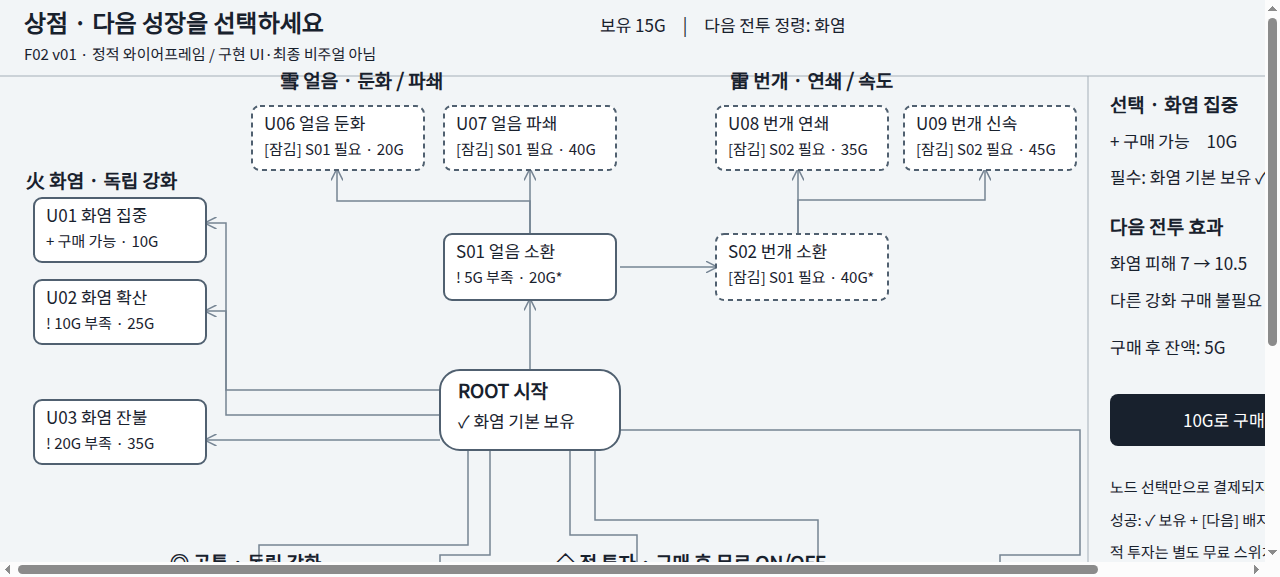
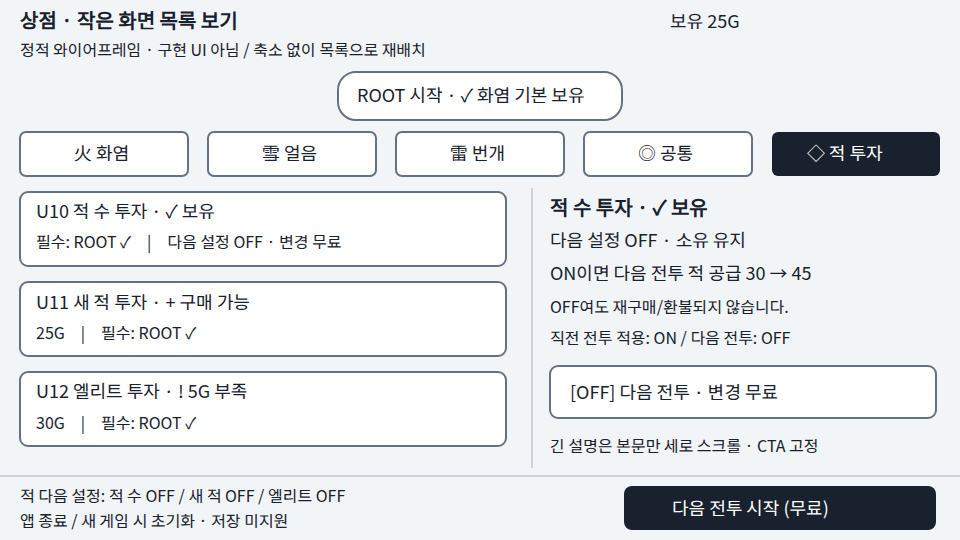
docs: resolve F02 peer review and responsive focus contract

diff --git a/replan/feedback-20261027/F02-sam-review.md b/replan/feedback-20261027/F02-sam-review.md
@@ -1,0 +1,61 @@
+# F02 Sam 실제 비용·기술 검토
+문서ID: P1-F02-SAM-v01
+담당: Sam | 검토일: 2026-10-27 | 상태: 검토 응답 완료, 조건부 수용·구현 미검증
+대상: F02.md P1-F02-v01 / F02-wide.svg / F02-compact.svg / F01.md P1-F01-v01
+카드: t_fbec12ad → F02 t_8703d60e
+
+## 결론
+고정 ROOT+14개 구매 노드·5가지, 필수 선행선, 선택과 명시적 구매 분리, 비색상 상태, 무료 투자 토글, 툴팁/고정 상세, 키보드 탐색, 작은 화면 목록 대체는 F06의 최소 구현으로 기술적으로 가능하다고 조건부 수용한다. 팬/줌·맞춤 아트·세이브·새 UI 프레임워크는 필요하지 않다. 다만 현재 UI에 배치만 바꾸는 경미한 작업은 아니다. 기존 사이드바를 전체화면 상점으로 바꾸고 거래/입력/선택 상태를 연결하는 작업이다.
+
+수용 조건은 아래의 지도 재배치, 작은 화면 필터/포커스 보완, F04/F05 완료판과의 통합 및 실제 격리 UI 시험이다. 이번 문서 검토를 위해 F04 차단을 해제하거나 우회할 필요는 없다. F06 구현 착수는 기존 선행조건에 계속 의존한다. 검토 완료는 F02/F06 구현 완료·대표의 가격/비주얼 개별 채택이 아니다.
+
+## 실제 확인 근거와 한계
+- F02 본문 전체와 두 SVG의 XML·좌표·문구를 직접 읽고 F01의 ID/선행/다음 전투 계약과 대조했다. 두 SVG는 정적 설계도다. 이번에 브라우저 렌더링·픽셀 충돌 검사·Unity UI 실행은 하지 않았다.
+- 내부 정본 Assets/MGAME/Runtime/ElementalDemo.cs를 읽었다. UI Toolkit의 UIDocument/VisualElement/Label/Button/ScrollView를 이미 사용한다(5, 25~66행). 기존 UI 기술을 재사용할 근거가 있다. Canvas/uGUI로 전환해야 한다는 근거는 없다. F02의 'Unity Canvas 실측'은 현 구현에서는 UI Toolkit 패널의 실제 해상도·스케일 실측으로 구체화하면 된다.
+- 같은 파일 52~62행은 폭340의 사이드바와 12개 카드, 클릭 즉시 Buy 호출이다. 19~20행의 본문/버튼 기본값과 58~59행의 카드 글자는 F02의 글자·클릭영역 기준과 다르다. 기존 스타일 재사용만으로 F02 크기 기준을 만족한다고 볼 수 없다.
+- 78~81, 91~116행에서 매 프레임 Refresh가 실행되고, 95행에는 과거 구매개수 해금 안내, 99~100행에는 12개 구매와 3개 투자 토글 갱신이 있다. 전체화면 노드나 상세를 매 프레임 재생성하지 말고 기존 요소를 유지하며 거래/선택/모드 변경 때 상점 표시만 갱신할 것을 권고한다. 실제 병목이나 프레임 저하는 측정하지 않았다.
+- DemoModel.cs 24~65행의 기존 12개 가격/Owned 배열, 동기 거래, 투자 소유/NextInvest 분리, 구매개수 해금과 73~94행의 다음 전투 재생성을 읽었다. 현재 코드가 이미 S01/S02를 지원한다는 뜻은 아니다. 명시 ID 대응과 구매개수 해금 제거는 F06의 필수 통합 비용이다.
+- F04.md는 실행 정책 차단·구현 미완료를 기록한다. 내부 정본 읽기는 가능했지만 승인 격리 복사본의 최신 일치 여부·실행 바이너리 동일성은 이번에 확인하지 않았다. F04/F05 변경 후 최신 코드를 다시 확인해야 한다.
+- 레이아웃 산술 보조용 python -c 호출은 무인 승인 정책으로 BLOCKED됐다. 계산 결과나 자동 검사 통과 수치를 만들지 않았으며 다른 실행기로 우회하지 않았다. 아래 레이아웃 지적은 읽은 원문 좌표/규칙의 비교이며 렌더링 결과가 아니다.
+
+## 최소 구현안과 상대 비용
+아래 비용은 설계상 상대 판단이며 실측·확정 견적·납기 약속이 아니다. 기존 UI Toolkit과 단일 로컬 모델을 유지하고 새 에셋/저장/컨트롤러 지원이 없다는 가정이다.
+
+|요소|권고 최소 방식|상대 부담·수용 조건|
+|---|---|---|
+|고정 지도·필수 선행|고정 ID와 가지별 좌표/연결 정의, 기존 도형 그리기 방식 재사용. 연결선은 클릭을 가로채지 않음|중간. 자동 그래프 배치/경로탐색 불필요. U07/U08을 형제 강화의 자식으로 표현하지 않음|
+|선택/상태/명시 CTA|선택 ID와 모델 상태를 분리. ROOT 포함 정보 선택 요소와 실제 구매 버튼을 별도로 둠|낮음~중간. 비활성 구매 버튼으로 노드 전체를 비활성화하면 잠금 이유 접근이 사라짐|
+|비색상 표식|텍스트 '[잠김]', '+ 구매 가능', '! 부족', '보유', '[다음]'과 테두리 재사용|낮음. 특수 글리프/맞춤 아이콘에 의존하지 않고 F05 한국어 폰트에서 확인|
+|무료 투자 토글|기존 소유/다음 설정 분리 재사용, 구매 CTA와 별도 버튼·hitbox|낮음~중간. 적용 중/다음 설정/신규 구매 건수를 별도 표시, 구매 직후 OFF도 정상|
+|고정 상세+툴팁|같은 표시 데이터를 재사용. 상세 본문만 스크롤, CTA 고정. 툴팁은 짧은 정보·지연·가용영역 보정|중간. 기존 파일에 툴팁/고정 상세 구현은 없음. hover는 필수 조작이 아님|
+|Tab/Shift+Tab·가지 이동|노드 ID 기반 포커스 순서와 선택 유지, 보이는 항목으로 포커스 복구|중간~높음. 자동 기본 Tab에 맡겨 명세와 일치한다고 단정하지 않음|
+|지도/목록/단일열|상태/상세/카드 표시 로직 공유, 배치만 전환. 독립 구매 로직을 모드별로 복제하지 않음|중간~높음. 필터·스크롤·포커스·화면 크기 전환 회귀가 주 비용|
+|입력 경계|상점 전면 패널로 전장 입력 차단, 모델 Phase도 검증. 구매/시작은 새 입력만 허용|중간~높음. F04 전멸 전환 프레임, 키 반복, 포커스 복귀와 함께 검증 필요|
+
+전체 합산 인일/금액은 산출하지 않는다. 실행환경과 F04/F05 완료판을 확인하지 못한 상태에서 정밀 수치를 약속할 근거가 없다. 성능보다 입력·거래·반응형 예외의 구현/회귀 비용이 우선 위험이라는 판단이다.
+
+## Mia 보완 요청 — 설계의 핵심을 바꾸지 않는 세부
+1. 넓은 지도는 1440×900 SVG 좌표를 1280×720에 그대로 복사하거나 전체 축소하면 안 된다. 상세 고정 폭을 제외한 트리 가용영역과 높이가 달라진다. SVG의 오른쪽 투자 카드가 트리 경계에 닿고, 하단 카드/추천문도 하단 쪽에 있으므로 1280×720 전용 가지별 좌표 보정이 필요하다. 최소 카드/본문 크기를 유지하는 고정 레이아웃 프리셋을 우선하고 선 교차 회피 자동 알고리즘은 만들지 않는다. 맞지 않으면 Mia와 가지 배치를 조정한다. 지도 최소 지원 기준을 임의로 올리지는 않는다.
+2. 960×540는 목록/상세 분리와 ROOT/필터의 고정 영역을 함께 산정해야 한다. SVG에서 ROOT는 y72~120, 필터는 y132~176에 있다. 본문의 '상단72/하단64를 제외한 영역을 55/45로 분할'을 그대로 적용하면 ROOT/필터를 위한 추가 세로 공간을 누락하기 쉽다. 고정 헤더 아래 ROOT/필터, 그 아래 남은 영역에 목록/상세 스크롤이라는 순서를 명시할 것을 요청한다.
+3. 640×480 단일열은 같은 5개 필터를 SVG 폭으로 유지할 수 없다. 필터는 텍스트가 읽히는 줄바꿈 배치 또는 가로 스크롤을 Mia가 선택하고, 키보드로 숨은 필터에 접근 가능해야 한다. '목록으로'는 상세에서 항상 접근 가능하게 두고 무료 시작/가격/CTA는 본문 긴 문구에 밀리지 않게 한다. 목록 위치는 가지별로 보존하는 단순 상태면 충분하다.
+4. 현재 Tab 명세에는 가지 헤더/필터와 '목록으로'의 순서가 빠져 있다. 작은 화면에서 전체 노드 고정 순서를 유지하려 자동 필터 전환하면 사용자가 고른 필터가 매번 바뀔 수 있다. 권고: 넓은 지도는 기재된 전체 순서, 목록은 ROOT→가지 필터→현재 가지의 노드→상세 행동→무료 시작, 단일열 상세는 목록 복귀→상세 행동→무료 시작. 선행 보기는 해당 가지를 열고 노드에 포커스, 필터 수동 변경은 해당 가지의 기존 선택 또는 첫 노드로 이동. 원래 선택 보존과 '숨은 선택 자동 노출'을 모든 필터 클릭에 적용해 필터 전환을 즉시 되돌리지 않도록 예외를 합의해야 한다. 이는 Sam 제안이며 Mia 수용 전 확정 UX 변경이 아니다.
+5. 모드 전환/거래 갱신 때문에 UI 트리를 재구성하며 포커스·누른 키를 잃지 않게 한다. 노드 Enter/Space는 선택, CTA에서만 구매, 비활성 CTA는 Tab 제외라는 F02 의도는 유지한다. 가지 헤더도 키보드로 이동시킬 경우 focusable 및 역할/복귀 규칙을 정한다.
+
+위 보완은 F02 원문을 임의 수정하지 않고 응답으로 전달한다. 지도와 기존 독립 구매 규칙 사이에 새 핵심 충돌은 발견하지 않았다. 필터와 포커스는 구현 전 Mia가 수용/수정 응답할 세부이며, 문서 리뷰 자체의 외부 실행 차단 사유는 아니다.
+
+## 더 싼 대안과 상신 조건
+- 권고 기본안: 넓은 화면만 고정 지도, 작은 화면은 동일 데이터 목록과 동일 상세를 재사용한다. 별도 UI 프레임워크·모드별 거래 코드·사용자 배치 편집기 없이 목적을 달성한다.
+- 선택적 150ms 테두리/짧은 음은 첫 최소판에서 생략 가능하다. 체크/잔액/상세 결과로 구매 성공은 유지한다. 이는 F02의 선택 요소를 줄이는 것이며 필수 접근성 정보를 없애는 대안이 아니다.
+- 목록 전용을 모든 화면에 쓰면 지도/연결선 비용은 줄지만 '전체화면 중앙 시작 트리' 의도를 약화시킨다. 자동 채택하지 않고, 일정 압박이 실제 확인될 때만 Mia와 Sophie를 통해 대표에게 대안으로 상신한다.
+- 팬/줌, 자동 레이아웃, 맞춤 아트, 새 저장, 별도 UI 시스템 전환, 장기100개 대응은 범위 밖이다. 이를 요구하거나 기본 글자/클릭영역을 지키기 위해 기존 최소판을 크게 재설계해야 하면 작업 범위·추가 예상량·잃는 UX를 먼저 구체 보고한다.
+- 현재는 큰 비용 변경이 발생했다는 실측 근거가 없다. F04 정책 차단을 비용 증가나 새 승인 필요로 바꿔 말하지 않는다. 재개 시 실제 추가 작업이 커지면 '고정 지도 유지와 배치 보정' 대 '목록 전용 축소'를 대표의 구체 선택지로 올리고 임의 축소하지 않는다.
+
+## F06 검증 인계 — 아직 실행하지 않음
+- F04/F05 완료판과 승인 격리 위치를 확인한 뒤 기능 모델 시험과 실제 UI 시험을 구분한다. F02의 필수 시나리오 1~9를 누락 없이 실행한다.
+- 모델: ROOT 구매 거절, S01/S02 선행, 같은 상점 연속 구매, U06 없이 U07/U09 없이 U08, 기존 구매개수 지급 제거, 중복/부정ID/전투중 구매 거절, 실패 시 무변경, 무료 투자 무차감과 다음 전투 스냅샷, 종별 최대1 재생성을 확인한다. UI 표시만으로 거래 성공을 판정하지 않는다.
+- UI: 1920×1080/1440×900/1280×720/960×540/640×480 및 모드 경계의 바로 전후, 긴 한국어·폰트 폴백, 필터/선행 보기/상세 복귀의 선택·스크롤·포커스 보존을 확인한다. 기준 치수는 OS 창 크기와 UI Toolkit 유효 패널 크기/스케일을 함께 기록한다.
+- 모든 기본/보조 상태와 무채색·음소거, 잠금 노드 정보 접근, Enter/Space 노드 선택과 CTA 구매, Tab/역순/자동 스크롤을 확인한다. 툴팁은 가장자리와 지연 중 선택변경도 시험한다.
+- 전멸/시간 종료로 열린 첫 프레임, 연타·Enter held·포커스 이탈/복귀·시작 직후 전장 입력관통을 확인한다. 상점 동안 전장 시간/공격/금화가 진행하지 않아야 한다. 시작/구매/토글의 이벤트별 로그와 전후 모델 값을 증빙한다.
+- 앱 종료/새 게임 초기화와 진행 미저장 안내를 확인한다. Windows 격리 빌드와 실제 전달물에서 확인한 결과만 통과로 기록한다. 기존 D02 인수 잔여·사람의 이해도·재미/가격 타당성은 별도다.
+
+실제 수행: 입력 문서와 정적 SVG 소스, 기존 UI/모델 및 F04 차단 기록의 읽기 검토. 미수행: 새 게임 코드/프로젝트 쓰기, Unity/빌드/기능·성능/사람 UX 시험, 원격 게시·Slack 발송. F02.md와 공유 README는 수정하지 않았다.

diff --git a/replan/feedback-20261027/F02.md b/replan/feedback-20261027/F02.md
@@ -1,17 +1,18 @@
 # F02 — 전체화면·중앙 시작 업그레이드 트리 UX
-문서ID P1-F02-v01 | Mia | 2026-10-27 | 상태: review, 구현 전 와이어프레임
+문서ID P1-F02-v02 | Mia | 2026-10-27 | 상태: review, 동료 조건 반영 완료·구현 전 와이어프레임
+변경: James C1/C2의 취득/활성/시점 분리, Sam의 UI Toolkit·1280 지도 프리셋·compact 본문·640 필터·Tab 예외를 반영. §9가 v01 SVG의 표현/좌표보다 우선한다.
 실행 근거: D-20261027-F-BATCH 최신 정정. 최종 비주얼 승인·가격 개별 채택·Unity 구현 완료가 아니다.
 선행: [F01](F01.md). 구현 담당: Sam / F06. 공유 README는 Sophie 소유로 수정하지 않는다.
 
 ## 1. 플레이어가 보는 장면과 다음 행동
 전투 종료 후 전투 화면을 덮는 전체화면 상점. 화면 중앙의 `시작 · 화염 기본 보유`를 기준으로 화염/얼음/번개/공통/적 투자 다섯 영역을 동시에 본다. 트리는 탐색 지도이지 강화 구매 순서를 강제하는 계단이 아니다. 먼저 노드를 선택하고 우측 상세에서 명시적 구매 버튼을 누른다. 노드 클릭만으로 결제하지 않는다.
-상단: `상점 / 보유 {gold}G / 다음 전투 정령: 화염·{해금 종}`. 하단 고정: `다음 전투에 적용 {pending}건 / 적 설정 요약 / 다음 전투 시작(무료)` 및 `앱 종료 시 진행 초기화`. 정령 해금과 강화의 pending은 신규 구매 건수, 투자 설정은 별도 ON/OFF 요약으로 표시한다. 전체화면은 게임 내 패널이며 OS 전체화면 변경이 아니다.
+상단: `상점 / 보유 {gold}G / 다음 전투 정령: 화염·{해금 종}`. 하단 고정: `신규 구매 {purchases}건 / 적 다음 설정 요약 / 다음 전투 시작(무료)` 및 `앱 종료 시 진행 초기화`. 신규 구매는 이번 상점에서 소유를 취득한 거래 건수이며 효과 활성 수가 아니다. 다음 전투 정령 종과 적 다음 설정 ON/OFF는 별도 요약한다. 전체화면은 게임 내 패널이며 OS 전체화면 변경이 아니다.
 첫 진입은 ROOT 선택, 키보드 포커스는 중앙 ROOT. 강제 튜토리얼/자동 구매/자동 전투 시작 없음. 0G에서도 `10G 더 모으면 화염 집중 구매 가능`과 무료 전투 시작을 함께 보여 막힘으로 오해하지 않게 한다. 문구는 목표 제안이며 가격/잔액을 런타임 데이터에서 읽는다.
 
 ## 2. 실제 와이어프레임 파일과 레이아웃
 - [1440×900 전체 지도](F02-wide.svg): 시작 ROOT를 트리 가용 영역 중앙에 둔 정적 와이어프레임. 잔액15G·ROOT만 보유·U01 선택의 예시이며 실행 가능한 상점이 아니다.
 - [960×540 축약 레이아웃](F02-compact.svg): 한 화면에 전체 지도와 긴 상세를 축소 압축하지 않고, 중앙 시작 요약+5개 가지 필터+선택 가지 목록+상세 패널을 보여 준다. 필터는 표시만 바꾸고 구매/잠금을 바꾸지 않는다.
-넓은 모드(가로1280 이상·세로720 이상): 상단76/하단92, 우측 상세320, 나머지 트리. 노드 최소148×64, 노드 간16 이상, 클릭 영역44 이상, 본문18px·상태16px·제목22px을 기준으로 한다. 좌표는 와이어프레임 가이드이며 Unity Canvas 실측으로 최종 보정한다.
+넓은 모드(가로1280 이상·세로720 이상): 상단76/하단92, 우측 상세320, 나머지 트리. 노드 최소148×64, 노드 간16 이상, 클릭 영역44 이상, 본문18px·상태16px·제목22px을 기준으로 한다. 좌표는 와이어프레임 가이드이며 UI Toolkit 유효 패널 해상도·스케일 실측으로 최종 보정한다.
 작은 모드: 지도 좌표 전체 축소 금지. 상단72/하단64를 고정하고 남은 영역을 목록55%/상세45%로 분리, 각각 독립 세로 스크롤. ROOT와 가지 필터를 위에 고정한다. 가로800 미만 또는 세로500 미만이면 상세를 단일 열 화면으로 전환하고 `목록으로`로 복귀, 같은 선택/스크롤 위치 보존. 640×480까지 필수 조작 유지가 목표이며 그 이하에는 최소 창 크기 안내. 실제 지원 해상도/렌더링 수용은 F06 시험 대상.
 이 범위의14개 구매 노드에는 이동/확대 기능을 도입하지 않는다. 휠은 넘치는 목록/상세 스크롤만 담당. 가지 이동/중앙으로 버튼과 화면 크기별 재배치가 드래그 팬/줌보다 비용이 작다는 Mia 권고이며 Sam 비용 검토 전 확정 견적이 아니다.
 
@@ -84,3 +85,40 @@ F06 필수 실제 수용 시나리오:
 ## 8. 구현 범위·위험
 고정14개 구매+ROOT,5가지,공통카드/상세/상태표시/선행선/반응형 목록만 요청한다. 팬·줌·자동경로탐색·맞춤 아이콘·음성·새 세이브·장기100개 트리·F03/F07 배치 구현은 추가하지 않는다. 숫자뿐 아니라 화염피해/얼음둔화/번개연쇄 효과를 문구에 드러내고 조합 가능성을 유지하되 새 효과를 약속하지 않는다.
 내부 구현/격리빌드/시험 증빙은 F06.md에서 연결할 예정이며 현재 F02에는 존재한다고 주장할 신규 구현 경로가 없다. 기존 D02 잔여 인수와 F04 실행환경 차단은 별개로 남는다. 비식별 문서/와이어프레임만 기존 MGame-artifact 범위에서 게시 가능, 소스·빌드·내부 경로/계정정보는 공개본에 넣지 않는다.
+
+## 9. v02 실제 검토 반영·구현 우선 명세
+실제 응답: [James 규칙 검토](F02-james-review.md), [Sam 기술·비용 검토](F02-sam-review.md). Mia가 두 응답 전체를 읽고 아래를 채택했다. 핵심 규칙 충돌 없음이라는 실제 응답과 조건부 기술 수용을 기록하며 구현·사람 검증 통과로 바꾸지 않는다. 두 검토자의 v02 재검토를 받은 것은 아니다. 이 절은 앞 절의 축약 설명 및 v01 그림과 충돌할 때 우선한다.
+
+### James C1/C2/C3
+C1 채택: 요약은 오직 `신규 구매 N건`. 효과 활성 수로 표시하지 않는다. 투자 구매 직후 OFF라도 신규 구매는 1건이며 보유 체크는 유지, 다음 설정 OFF, 활성 예정 효과로 집계하지 않는다. 정령 종 요약과 투자 설정은 거래 건수와 별개다.
+C2 채택: 상점 상세의 투자 설명 아래에 `직전 전투 적용: ON / 다음 전투: OFF`를 나란히 표시한다. 상점에는 진행 중 전투가 없으므로 `적용 중`이라는 현재형을 사용하지 않는다. 첫 전투 전 스냅샷이 없다면 `직전 전투: 없음`. 전투 HUD에서만 `이번 전투 적용`을 쓴다. 세 투자 각각 같은 규칙. 저장 데이터나 무료 토글 의미를 바꾸지 않는다.
+C3 수용 경계: S01/S02 선택 상세에 `다음 전투부터 정령 1개`와 §3 효과를 함께 표시한다. 소환 시점/독립 강화/무료 토글 이해도는 아직 사람 관찰이 필요하며 정적 예시로 통과시키지 않는다.
+
+### Sam 1 — 1280×720 전용 지도 프리셋
+1440 그림을 축소하지 않는다. 1280 유효 패널에서 지도 x0~960/y76~628, 상세 x960~1280, 상단76/하단92. 모든 카드148×64, 글자 기준 유지. 좌표는 카드 좌상단이며 ROOT의 중심이 지도 중심이다. 아래는 구현용 배치 명세이지 실제 Unity 렌더링 측정값이 아니다.
+
+|영역|ID|좌상단 x,y|
+|---|---|---|
+|중앙|ROOT|406,320|
+|화염|U01 / U02 / U03|24,208 / 24,288 / 24,368|
+|얼음|S01 / U06 / U07|210,96 / 210,176 / 210,256|
+|번개|S02 / U08 / U09|582,96 / 582,176 / 582,256|
+|공통|U04 / U05|300,528 / 480,528|
+|적 투자|U10 / U11 / U12|780,288 / 780,368 / 780,448|
+
+ROOT→얼음/번개는 정령 해금 경로임을 범례로 유지하고 S02의 실제 선행선은 S01에서 시작한다. 강화 형제끼리 연결 금지. 가지별 줄기 공유는 가능하나 카드 내부를 관통하지 않는다. 선은 배경 레이어, 클릭 무시. 노드 제목/상태는 각각 줄바꿈 허용, 긴 설명은 상세에서만 표시. 추천 문구는 지도 밖 하단 요약의 도움말로 이동하여 아래 카드 공간을 잠식하지 않는다. 1440 이상은 기존 그림의 배치를 유지하되 v02 취득/시점 문구를 쓴다. F06에서 선 겹침/글자 잘림을 발견하면 먼저 좌표만 보정하고 글자·터치영역 축소나 최소 지원 기준 상향으로 우회하지 않는다.
+
+### Sam 2/3 — 실제 본문 영역과 640 필터 선택
+960×540: 상단 y0~72, ROOT y72~120, 간격12, 필터 y132~176, 간격12, 본문 y188~476, 하단 y476~540. 본문만 목록55%/상세45%로 분리하며 ROOT/필터를 본문 높이에 다시 포함하지 않는다. 상세는 본문 아래쪽 CTA52 영역을 확보하고 그 위 효과 텍스트만 스크롤. 목록과 상세 스크롤 위치는 별도다.
+640×480: 필터는 가로 스크롤 대신 3+2 두 줄 고정 배치. 좌우 여백16, 필터 폭192·높이44, 가로/세로 간격16. 첫 줄 화염/얼음/번개, 둘째 줄 공통/적 투자. 헤더 y0~64, ROOT y64~112, 필터 y124~228, 본문 y240~416, 무료시작 고정 하단 y416~480. 목록 모드에는 ROOT/필터가 보인다. 노드 선택 시 단일열 상세로 전환하며 ROOT/필터를 숨기고 y64부터 `목록으로`44, 상세본문, 하단 고정 구매44를 배치한다. 무료시작은 상점 하단에 별도로 항상 남긴다. 가격은 구매 CTA 옆 고정 정보로 둔다. 긴 본문이 무료시작/목록복귀/가격을 밀어내면 실패다. 목록 복귀 시 가지·선택·해당 가지 스크롤을 보존한다.
+
+### Sam 4/5 — 필터·복귀·Tab 예외 확정
+넓은 지도: §6의 전체 노드 순서 유지. 추가 가지 이동 버튼을 만들면 ROOT 바로 뒤에 화염/얼음/번개/공통/적 투자 순으로 배치하고 각 버튼은 해당 가지 첫 노드로만 포커스를 보낸다. 장식용 가지 제목은 비포커스 텍스트이며 포커스가 갈 가지 헤더는 버튼으로만 구현한다.
+분할 목록: ROOT → 필터5개(화염/얼음/번개/공통/적 투자) → 현재 가지 노드(§3 표의 순서) → 상세의 선행 보기/구매/무료토글 중 존재하며 활성인 행동 → 무료시작 → 순환. 숨은 가지 노드를 Tab 순서에 넣지 않는다.
+단일열 상세: 목록으로 → 상세의 활성 행동 → 무료시작 → 순환. Shift+Tab은 역순. ROOT는 선택 정보만, 비활성 구매버튼은 Tab 제외, 노드 Enter/Space는 선택만이라는 기존 계약 유지.
+수동 필터 클릭/Enter는 그 가지의 마지막 선택 또는 첫 노드를 선택하며 포커스는 누른 필터에 유지한다. Tab은 남은 필터를 거쳐 현재 가지 첫 노드로 간다. 숨은 옛 선택으로 필터를 자동 되돌리지 않는다. `선행 보기`는 예외적으로 선행 노드의 가지를 열고 그 노드를 선택·포커스·자동스크롤한다. 단일열이라면 목록으로 돌아가 선행 노드를 노출한다.
+화면 모드 변경은 선택ID/가지별 스크롤을 유지하며 선택 가지를 노출한다. 삭제되는 컨트롤에 포커스가 있었다면 대응 노드(상세라면 목록복귀)로 복구한다. 거래 갱신은 요소 재생성 대신 상태 갱신 우선, 포커스/held 입력을 재결제로 바꾸지 않는다. 필터 수동 조작만 숨은 선택 자동노출 원칙의 예외다.
+
+### 비용·검증 인계
+Sam의 상대 부담(견적 아님)을 채택: 상태배지는 낮음, 고정지도/상세는 중간, 반응형·키보드·입력경계는 중간~높음. UI Toolkit 재사용, 모드별 거래 로직 공유, 선택적 테두리/음 생략 가능. 모든 화면 목록 전용 전환은 승인 의도의 축소이므로 자동 채택하지 않는다. 팬/줌/새 에셋/저장 추가 없음.
+F06은 §7의9개 시나리오와 Sam 검토의 모델/해상도 경계/입력 검증을 실제 격리판에서 수행한다. 특히 투자 직전ON→다음OFF, 수동필터 유지, 선행보기 예외, 1280 카드 경계, 640 두 줄 필터와 상세 복귀를 증빙한다. F04/F05 선행 및 D02 잔여 인수는 그대로다.

diff --git a/replan/feedback-20261027/F02-james-review.md b/replan/feedback-20261027/F02-james-review.md
@@ -1,0 +1,69 @@
+# F02 v01 — James 독립 규칙 검토 응답
+
+문서ID: P1-F02-JAMES-REVIEW-v01
+담당/검토자: James
+검토 기준일: 2026-10-27
+대상: P1-F01-v01, P1-F02-v01, F02-wide.svg, F02-compact.svg
+상태: 실제 독립 검토 완료 · 아래 표현 보완 및 F06 실행 검증을 조건으로 수용
+연결: D-20261027-F-BATCH 최신 정정 / 검토 카드 t_5c1d4990 / 인계 F02 t_8703d60e
+이 응답은 대표 승인, 가격 채택, F02 전체 완료 또는 F06 구현 통과가 아니다.
+
+## 1. 결론 — 지도를 수용하고 구매 순서를 새로 강제하지 않는다
+
+중앙 ROOT에서 정령 소환과 독립 강화를 구별하는 구조는 F01을 훼손하지 않는다. 문서의 선행 규칙과 실제 SVG 경로를 대조했을 때, 강화를 차례로 사야 하는 새 조건이나 영구 배타 가지는 발견하지 못했다. 따라서 핵심 규칙 충돌로 F02를 중단할 사유는 없다.
+
+재미 가설은 ‘강화 속도 증가’만이 아니라 다음 전투에서 얼음 둔화와 번개 연쇄 등 새 행동을 예측하고 선택하는 데 있다. 다만 지도에 목표가 보인다는 사실만으로 실제 소환까지의 기다림이 재미있다는 결론은 낼 수 없다. 20/40G는 시험 제안으로만 수용한다.
+
+조건은 두 종류다. 아래 문구 보완은 Mia가 F02에서 처리·채택 여부를 기록할 사항이고, 실제 구매·토글·스냅샷 동작은 기존 F06에서 증빙할 사항이다. 이 리뷰 때문에 별도 기능이나 새 승인을 추가하지 않는다.
+
+## 2. 질문별 실제 답변과 근거
+
+|검토 질문|James 판정|읽은 근거와 조건|
+|---|---|---|
+|ROOT가 무료 구매나 추가 업그레이드로 바뀌는가?|아니오|F02 §3/§4는 기본 보유·구매 대상 아님·토글 없음. wide SVG 중앙도 ‘화염 기본 보유’이며 구매 CTA는 선택 U01 상세에만 있다. 최초 포커스를 ROOT에 두는 것은 정보 탐색이지 거래가 아니다.|
+|선행선이 강화 독립성을 훼손하는가?|아니오, 현재 경로 기준 수용|F02 §3과 wide SVG의 edge 경로를 대조. ROOT→S01→S02, S01→U06/U07, S02→U08/U09, 나머지는 ROOT 직결이다. U06/U07과 U08/U09는 형제 배치이고 강화 간 필수 화살표는 없다. 공통 줄기를 공유하는 선은 형제 간 의존이 아니다.|
+|추천이 실제 잠금으로 오해될 여지가 있는가?|규칙은 보존, 이해도는 미검증|wide 하단에 추천 순서와 ‘추천은 구매 제한이 아닙니다. 모든 가지를 획득할 수 있습니다.’가 함께 있다. F02 §3은 기본 지도에서 강화 사이 점선도 생략한다. 추천 미이행으로 구매 CTA를 막거나 구매 개수 문턱을 되살리면 불수용이다.|
+|모든 구매 노드의 획득을 허용하는가?|설계상 수용|F01의 기존 강화/투자와 소환 노드를 F02 §3 및 wide 카드에서 대조했다. 영구 선택 포기·강화 간 배타·2/5개 구매 자동 해금은 없다. 전체 획득 가능은 조건부 도달성이지 한 전투 내 구입·유한 시간 완주 보장이 아니다.|
+|20/40G를 확정 가격으로 채택하는가?|아니오|F02 표와 wide 별표는 시험값으로 명시한다. F01 §3의 성장 지연 위험이 그대로 남는다. 목표 노출이 비용 문제를 해결했다는 주장은 하지 않는다. 가격·전투 수·시간의 적정성은 신규 자연수입 경로 실측 전 미판정이다.|
+|무료 토글과 소유권을 분리하는가?|수용|F02 §4/§5 및 compact의 U10 보유 체크·‘다음 설정 OFF · 변경 무료’·재구매/환불 없음이 F01과 일치한다. 소환 S01/S02에는 토글을 추가하지 않는다. U10~U12 첫 구매 후 기본 ON도 유지한다.|
+|다음 전투 적용을 보존하는가?|수용, 런타임 확인 필요|F02 §5는 구매 즉시 잔액/소유만 갱신하고 다음 전투 시작 스냅샷에서 생성·적용한다. 같은 상점에서 S01 직후 S02/U07 구매를 허용하므로 불필요한 전투 대기를 추가하지 않는다.|
+|투자 OFF가 효과 활성으로 집계되는가?|문서 규칙은 아니오|F02 §5는 OFF를 효과 적용 예정으로 세지 않고 소유 취득 건수와 활성 효과 수를 구분한다. compact의 OFF 예시는 체크가 남는다. 다만 아래 C1/C2의 표현 일관성은 보완해야 한다.|
+|작은 화면 필터가 숨은 잠금이 되는가?|규칙상 아니오|compact는 적 투자 가지만 나열하지만 다섯 필터와 ROOT를 유지한다. F02 §2/§6은 표시 필터가 구매 조건을 바꾸지 않으며 숨은 선택의 가지를 노출하도록 규정한다. 다른 가지로 이동 가능하다는 사실은 실제 입력 시험이 필요하다.|
+|세이브/배치 등 범위가 늘어나는가?|아니오|두 SVG의 초기화·저장 미지원 안내, F02 §8의 새 세이브·팬/줌·배치 제외가 F01과 일치한다. U05는 지휘 원이지 공격 사거리 강화가 아니다. F03/F07 해석을 이 검토에서 대신 결정하지 않는다.|
+
+## 3. 구체 이견·조건부 수용 사항
+
+### C1 — ‘다음 전투 적용 N건’과 ‘신규 구매 N건’은 같은 뜻이 아니다
+
+근거: F02 §1은 ‘다음 전투에 적용 {pending}건’을 신규 구매 건수로 정의하고, §5는 OFF 투자에 효과 적용 배지를 쓰지 않도록 한다. wide 하단은 ‘다음 전투 적용: 신규 구매 0건’이다. 이 예시는 신규 구매가 없어 모순이 드러나지 않지만, 투자 구매 직후 OFF로 바꾸면 소유 취득은 있고 활성 효과는 없다.
+
+요청: 거래 수를 표시한다면 ‘신규 구매 N건’으로 명명하고, ‘다음 전투 정령’ 및 ‘적 다음 설정 ON/OFF’를 별도 요약으로 유지한다. 효과 적용 수로 읽히는 제목 아래 취득 건수를 넣지 않는다. 기존 §5 규칙을 더 명확히 표현하는 보완이며 새 카운터 기능을 요구하지 않는다. OFF를 활성 효과로 집계하는 구현은 불수용이다.
+
+### C2 — compact는 세 상태의 분리를 설명하지만 적용 중 값은 보여 주지 않는다
+
+근거: compact 상세는 ‘적용 중 설정과 다음 설정은 별개입니다’라고 쓰지만 실제 적용 중 값은 제시하지 않는다. 보유/다음 OFF의 구분은 충분히 명시되어 있다. 그러나 직전 전투가 ON이고 다음 전투만 OFF인 경우를 현재 그림만으로 입증할 수 없다.
+
+요청: 기존 F02 §4의 ‘적용 중 요약’을 구현에 인계할 때, 상점에서는 ‘직전 전투 적용: ON / 다음 전투: OFF’처럼 시점이 드러나게 하거나 전투 중에만 ‘적용 중’으로 표시한다는 표시 위치를 명시한다. 상점에는 진행 중 전투가 없으므로 과거 스냅샷을 현재 활성 효과로 오인시키지 말 것. 표시 방법의 최종 UX 선택은 Mia 책임이며, 저장 구조나 토글 규칙 변경은 필요 없다.
+
+### C3 — 행동 변화는 일부 선택 상세에만 있으므로 사람 이해도 확인이 남는다
+
+wide는 U01의 피해 변화, compact는 U10의 공급 변화 예시다. S01/S02를 선택했을 때 새 정령과 적용 시점이 실제로 읽히는지는 이 두 정적 장면만으로 확인하지 못했다. F02 표의 얼음/번개 효과 문구는 수용한다. 신규 아이콘이나 튜토리얼을 추가하기보다, 기존 상세에 ‘다음 전투부터 정령 1개’와 효과를 유지한 채 설명 없이 목표를 찾을 수 있는지 확인하는 것이 우선이다.
+
+## 4. 가장 싼 검증과 불수용 반례 — 기존 F06 범위에 인계
+
+아래는 실행 결과가 아니라 요구·제안이다. 새 개발 카드 생성이나 구현 착수를 지시하지 않는다.
+
+- 선행 반례: 충분한 G와 S01만 보유한 상점에서 U06 없이 U07을 구매한다. S02 보유 뒤 U09 없이 U08을 구매한다. 어느 쪽이든 강화 미보유로 거절되면 F01 위반이다.
+- 같은 상점 연속 거래: S01 구매 직후 S02/전용 강화 CTA와 잔액이 갱신되되 전장 정령은 생성되지 않아야 한다. 다음 전투에서만 보유 종별 최대 1개를 생성한다. 재도전 시에도 누적 생성하지 않는다.
+- 토글 반례: U10 구매 → 기본 ON → 즉시 OFF → 무료 ON으로 전환한다. 구매 차감은 최초 한 번뿐, 보유 체크 유지, 다음 설정만 변경, 기존 적용 스냅샷 불변이어야 한다. OFF 구간을 활성 효과로 보고하면 실패다.
+- 전체 획득: 모든 구매 노드 보유 후 ROOT 및 보유 노드 재구매 불가, 다른 가지 영구 차단 없음, 무료 다음 전투 가능을 확인한다. 2/5개 구매 자동 지급을 별도로 부정 시험한다.
+- 자연경제: 적 투자 OFF·초기금/Hit 주입 없이 화염 시작에서 실제 수입으로 S01→S02까지의 전투 수·시간·강화 보류를 기록한다. 무수입 반복 또는 과도한 대기라면 먼저 시험 가격을 재검토한다. 현재 성공·적정시간으로 판정하지 않는다.
+- 사람 이해도 최소 관찰: 기존 정적 그림/선택 상세를 이용해 처음 보는 사람에게 ‘얼음 파쇄에 둔화 구매가 필요한가’, ‘추천 밖 화염 확산을 지금 살 수 있는가’, ‘보유 OFF 투자를 다시 켜면 돈을 내는가’, ‘소환은 언제 나타나는가’를 묻는다. 정답 설명 전에 오답·설명 요청을 기록한다. 이는 제안이며 이번 검토에 참가자 관찰은 없다.
+
+## 5. 실제 수행·미수행과 인계
+
+실제 수행: 공통 AGENTS/README, 최신 실행 승인 원문, F01/F02 전체 문서와 두 실제 SVG의 XML·텍스트·좌표 경로를 읽고 규칙 대조했다. wide 파일은 브라우저로 열어 해당 파일 URL/페이지 크기 반환까지 확인했다. 렌더링 스크린샷 획득은 도구 타임아웃으로 실패했으므로 시각 렌더링 합격이나 글리프/잘림 확인을 주장하지 않는다. 별도 Python 자동 검사는 무인 실행 승인 정책으로 실행되지 않았으며 자동 통과 수치를 보고하지 않는다. 최초 셸 기본 작업 경로 오류는 명시적 작업 workspace 지정으로 해소했다.
+
+미수행: Unity/게임 코드 변경·실행, 실제 거래·키보드·포커스·해상도·성능 시험, 사용자/재미 실험, 새 자연수입 경로 실측, 외부 저장소 게시·Slack 발송. 문서와 SVG 소스 검토는 이러한 실검증을 대체하지 않는다.
+
+변경 파일은 이 응답 문서뿐이다. F01/F02 원문, SVG 및 공유 README는 수정하지 않았다. C1/C2의 채택·표현 보완 및 공개본 정리/완료 보고는 Mia F02에 인계한다. Sam 비용 검토는 별도 실제 응답으로 받아야 하며 이 검토가 대신 동의하지 않는다. 본 카드 완료는 James 응답 제출 완료만 뜻하며 F02/F06 또는 D02 잔여 인수를 완료 처리하지 않는다.

diff --git a/replan/feedback-20261027/F02-validation.md b/replan/feedback-20261027/F02-validation.md
@@ -1,5 +1,6 @@
-# F02 v01 검증 기록
-Mia / 2026-10-27 / 상태: 문서·정적 렌더링 검증 완료, 전문 검토 대기
+# F02 v02 검증 기록
+Mia / 2026-10-27 / 상태: 실제 전문 응답 반영·문서/정적 렌더링 검증 완료, Unity/사람 검증 별도
+아래 v01 검증 및 전문 검토 대기 문구는 당시 이력이며 v02 절이 최신 상태다.
 
 ## 실제 실행
 브라우저로 F02-wide.svg와 F02-compact.svg 로컬 파일을 열고 CDP viewport를 각각1440×900,960×540으로 설정하여 스크린샷을 촬영했다. F02-wide.png/F02-compact.png가 그 결과다. SVG는 정적 와이어프레임이지 클릭·거래·스크롤이 구현된 게임 UI가 아니다.
@@ -20,6 +21,16 @@ ROOT, S01, S02, U01, U02, U03, U04, U05, U06, U07, U08, U09, U10, U11, U12.
 - 적투자: 구매 보유와 무료토글 구분, OFF 재구매/환불 없음, 효과활성 집계와 소유 취득 건수 구분 계약 및 compact 예시 존재.
 - 모든14개 획득: 배타·포기·구매수 문턱 없음. 실제 거래·도달성 검증은 F01 참조모델/향후 F06과 구분.
 - 작은 화면: 960×540 정적 카드/상세/무료시작 캡처, 긴 문구 본문 대안 명시. 1280×720·640×480 Unity 적응형/Tab/입력관통은 미실행.
+
+## v02 마감 검증·실제 전문 응답 반영
+James의 F02-james-review.md와 Sam의 F02-sam-review.md 전체를 직접 읽었다. James C1/C2와 Sam 보완1~5를 F02 §9에서 채택했다. C3 사람 이해도와 F06 실행 조건은 미검증으로 유지한다. v02의 추가 재검토나 대표 최종 비주얼 승인은 받지 않았다.
+
+실제 브라우저 재검증: 변경한 compact 960×540 및 wide 1440×900를 각각 열고 한국어 문구와 C1/C2 보완을 육안 확인했다. 각각 document.fonts.check true, text 경계의 캔버스 넘침 빈 배열. PNG는 이 재촬영 결과로 갱신했다. compact에는 `직전 전투 적용: ON / 다음 전투: OFF`가 실제 표시된다. wide에는 `신규 구매 0건`만 표시하고 효과 적용 건수와 혼동하는 머리말을 제거했다.
+
+허용된 브라우저 JS로 §9 좌표 산술을 확인: ROOT 포함15개 카드, 지도 영역 밖 없음, 카드 상호 겹침 없음. ROOT 중심[480,352]와 지도 중심[480,352] 일치. 960 본문높이288, 640 본문높이176, 640 필터3열+여백/간격 합640. 이 결과는 좌표 산술이며 1280/640 렌더링·선 교차·입력·Unity 실측이 아니다. 1280 프리셋은 표 명세만 제공하며 새 렌더링 이미지라고 주장하지 않는다.
+
+v02 로컬 Python 배치 편집을 execute_code로 요청했으나 무인 정책 차단되어 실행0회였다. 이후 정식 patch 도구로 문서 편집했다. 정책 설정 변경·셸/Python 우회 없음. 브라우저의 한 호출은 들여쓰기 오류로 실패했고 바로 고쳐 위 실제 반환을 얻었다.
+Slack 직접 전송 도구는 이 세션 검색에 없었다. 최종 산출물/검증/위험은 F06 카드와 완료 알림 구독 경로로 인계하며 직접 Slack 발송 성공으로 기록하지 않는다.
 
 ## 실제 검토 응답 경계
 Mia가 F01을 실제 읽고 작성한 UX 검토는 F02 §7에 기록했다.
